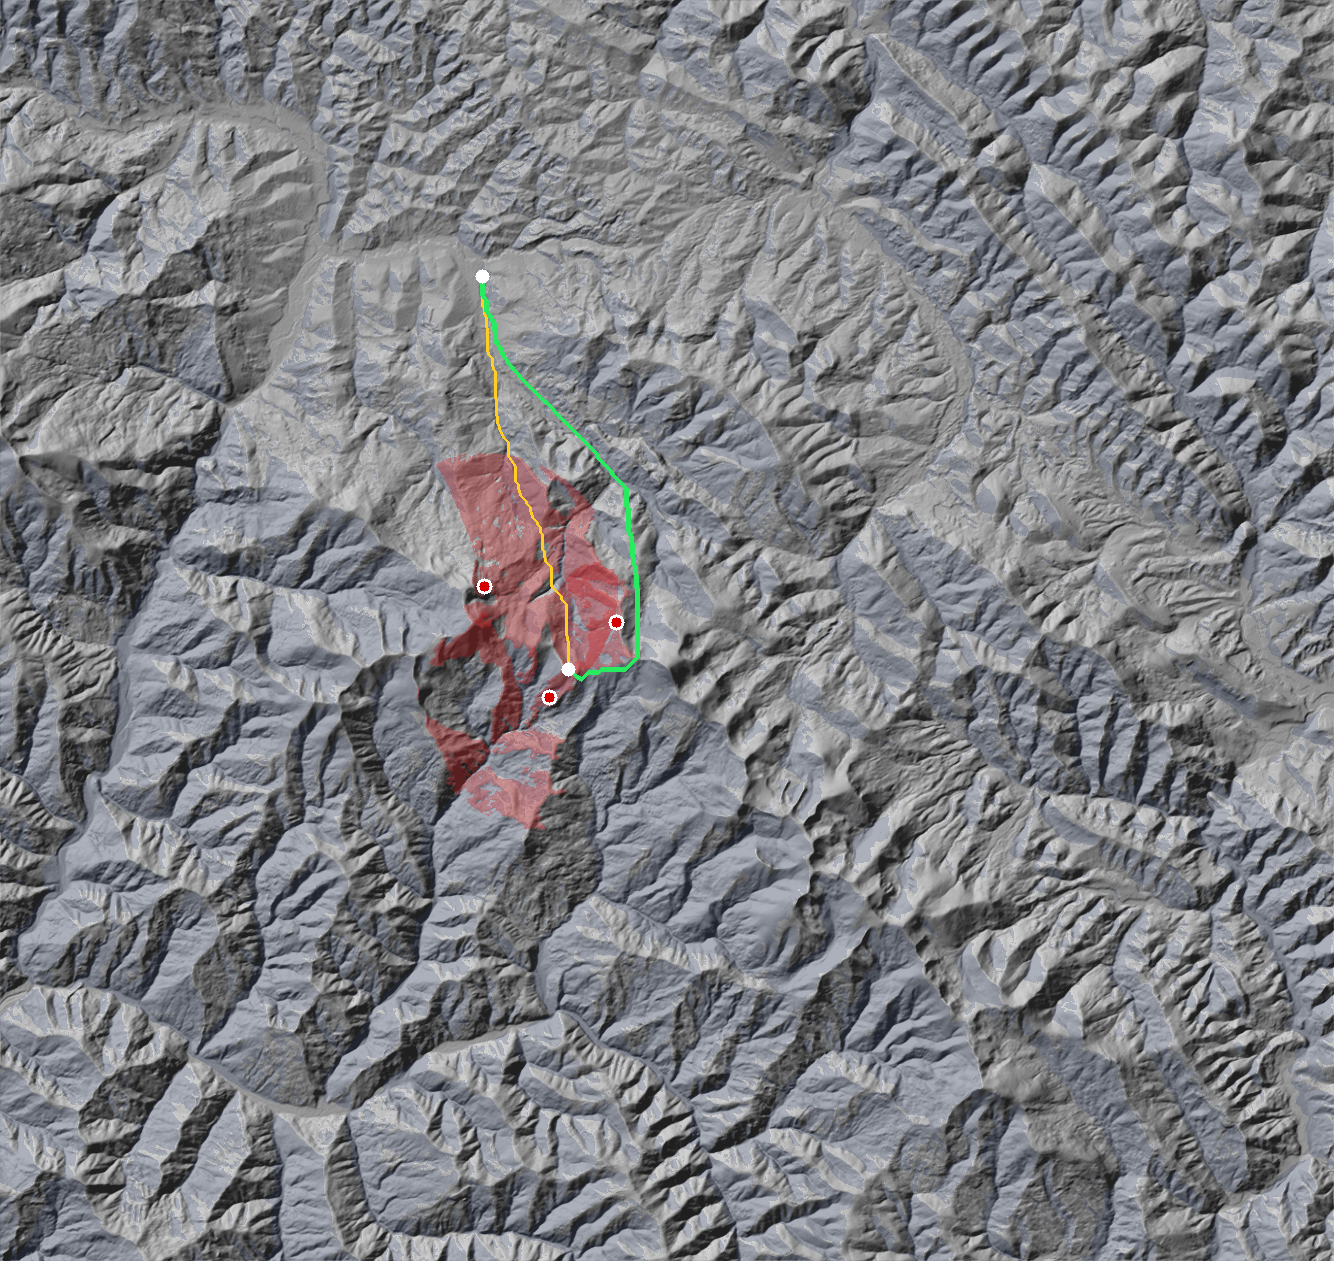
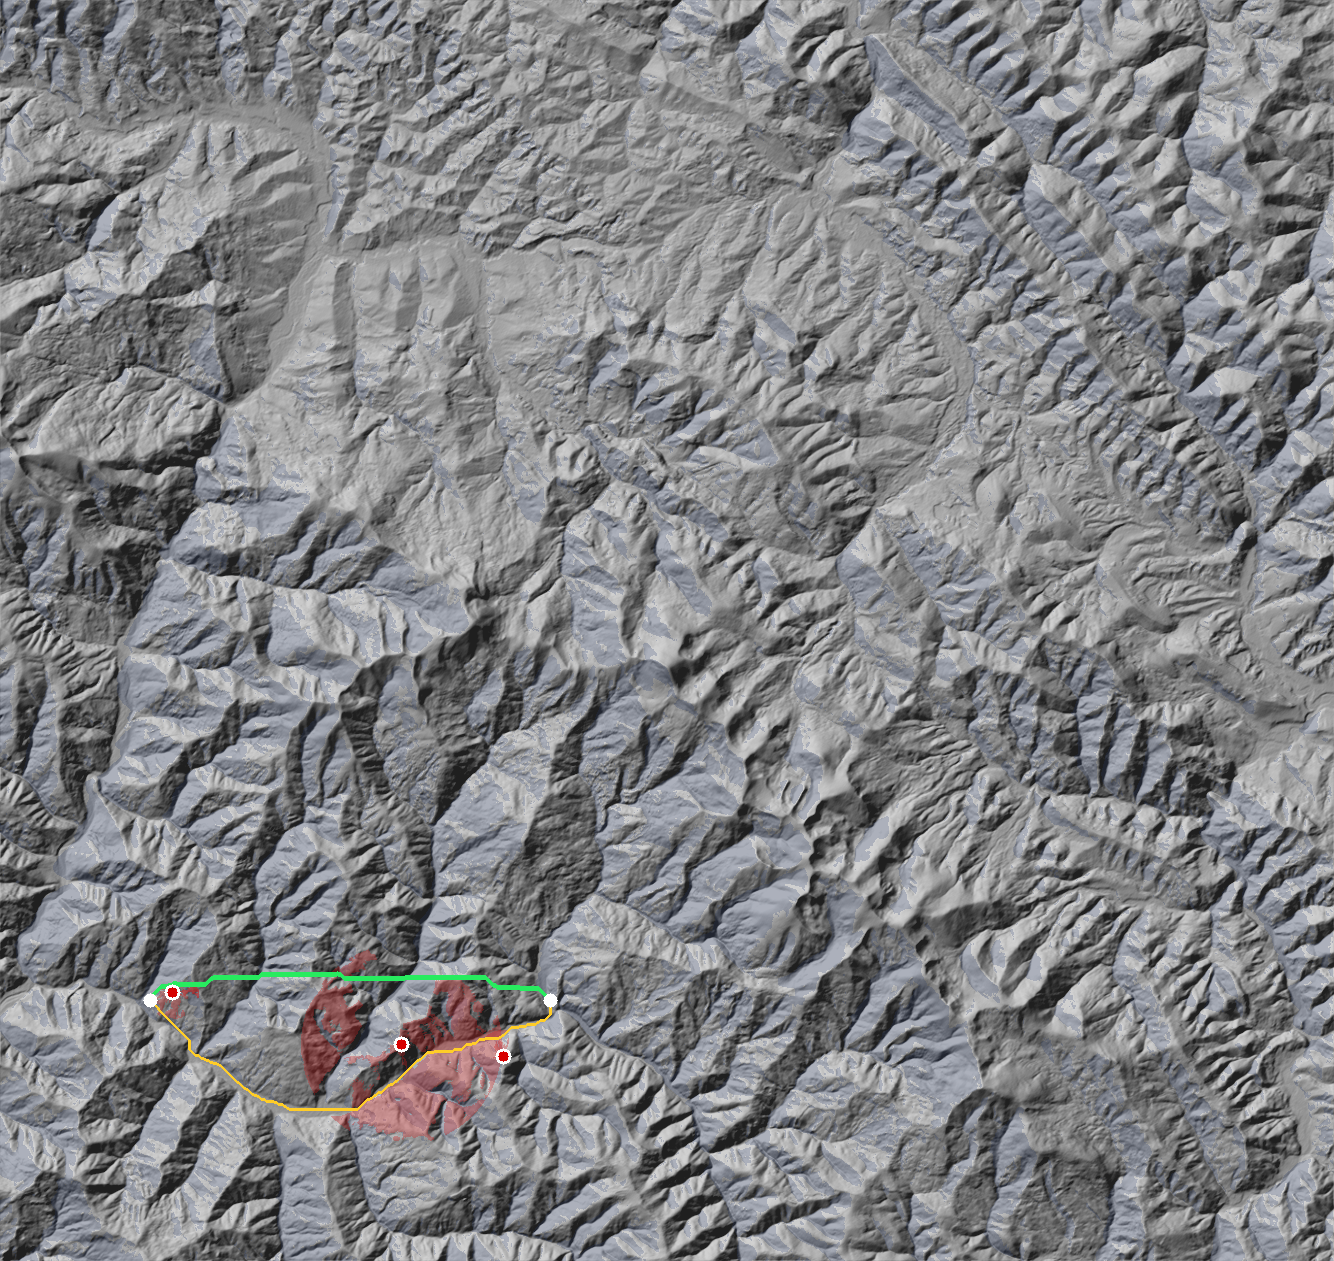
Rebuild the demo mission: small-drone ranges, sunlit sensors, real trade
Ranges cut again, this time for the TARGET rather than the sensor. Published
figures are for purpose-built systems against something worth detecting; a
30 cm airframe is a far smaller thing to see. 0.8 km for an observation post
(NATO STO puts a 30x PTZ system at ~1 km against DJI-class, a soldier does
worse), 2 km for RF (the control link is weak), 3 km for radar (Australian
Army lower bound against Mavic-class).

Sensors placed against the ACTUAL routed path, not the straight line. An
earlier attempt used the straight line the route never follows and left every
sensor 1.3-3.2 km out, in range of nothing.

Sensors kept out of terrain shadow, which moved the demo to 05:00. At 6
degrees of sun 62% of the terrain is shadowed and there is nowhere sunlit to
put them; at 16 degrees only 24% is. It gives the tactically right picture
anyway - sensors on sunlit ridges, drone in shadowed valleys.

Fixed a reading that looked like a bug: the planned route can be SHORTER than
the direct one, because weight zero minimises distance plus climb rather than
distance, so an exposure term can push the search onto a flatter, shorter
line. It now says so instead of printing negative extra distance.

diff --git a/scripts/scenario.js b/scripts/scenario.js
@@ -298,8 +298,15 @@ for (const vehicle of selection.vehicles) {
       best.route.exposedSeconds.toFixed(0) + "s in view, longest unbroken " +
       best.route.longestExposedRun.toFixed(0) + "s");
     console.log("");
-    console.log("  " + cut.toFixed(0) + "% less time in view for " + detour.toFixed(0) +
-      "% more distance, with " + (best.endurance.marginFraction * 100).toFixed(0) +
+    // The planned route can come out SHORTER than the direct one. Weight zero
+    // minimises distance plus climb, not distance, so adding an exposure term
+    // can push the search onto a flatter line that is fewer metres overall.
+    // Printing that as "-11% more distance" reads like a bug.
+    const distanceWord = detour >= 0
+      ? detour.toFixed(0) + "% more distance"
+      : Math.abs(detour).toFixed(0) + "% LESS distance - the concealed line is also flatter";
+    console.log("  " + cut.toFixed(0) + "% less time in view for " + distanceWord +
+      ", with " + (best.endurance.marginFraction * 100).toFixed(0) +
       "% of endurance still in reserve.");
     console.log("  Chosen by sweeping platform and exposure weight together and keeping the");
     console.log("  least-seen route that still fits the battery.");
